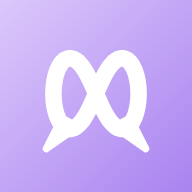
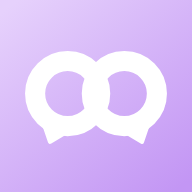
Redraw Lavender Infinity as a wide horizontal loop.
Replace the tall pretzel stroke with two round loops and small speech-bubble tails that point down and outward, then regenerate the favicon and every PNG size from that mark.

diff --git a/src/components/Logo.tsx b/src/components/Logo.tsx
@@ -1,34 +1,28 @@
 import { useId } from 'react'
 import { cn } from '../lib/cn'
 
-const INFINITY =
-  'M46.2 31.2 L46.11 33.37 L45.84 35.45 L45.42 37.35 L44.86 39.02 L44.19 40.41 L43.44 41.49 L42.65 42.27 L41.84 42.76 L41.02 42.98 L40.22 42.96 L39.44 42.73 L38.69 42.32 L37.98 41.77 L37.31 41.09 L36.66 40.31 L36.06 39.46 L35.48 38.54 L34.93 37.57 L34.41 36.56 L33.9 35.52 L33.41 34.45 L32.93 33.38 L32.47 32.29 L32 31.2 L31.53 30.11 L31.07 29.02 L30.59 27.95 L30.1 26.88 L29.59 25.84 L29.07 24.83 L28.52 23.86 L27.94 22.94 L27.34 22.09 L26.69 21.31 L26.02 20.63 L25.31 20.08 L24.56 19.67 L23.78 19.44 L22.98 19.42 L22.16 19.64 L21.35 20.13 L20.56 20.91 L19.81 21.99 L19.14 23.38 L18.58 25.05 L18.16 26.95 L17.89 29.03 L17.8 31.2 L17.89 33.37 L18.16 35.45 L18.58 37.35 L19.14 39.02 L19.81 40.41 L20.56 41.49 L21.35 42.27 L22.16 42.76 L22.98 42.98 L23.78 42.96 L24.56 42.73 L25.31 42.32 L26.02 41.77 L26.69 41.09 L27.34 40.31 L27.94 39.46 L28.52 38.54 L29.07 37.57 L29.59 36.56 L30.1 35.52 L30.59 34.45 L31.07 33.38 L31.53 32.29 L32 31.2 L32.47 30.11 L32.93 29.02 L33.41 27.95 L33.9 26.88 L34.41 25.84 L34.93 24.83 L35.48 23.86 L36.06 22.94 L36.66 22.09 L37.31 21.31 L37.98 20.63 L38.69 20.08 L39.44 19.67 L40.22 19.44 L41.02 19.42 L41.84 19.64 L42.65 20.13 L43.44 20.91 L44.19 21.99 L44.86 23.38 L45.42 25.05 L45.84 26.95 L46.11 29.03 L46.2 31.2'
+const LOOPS =
+  'M 33.40 31.20 A 10.85 10.85 0 1 1 11.70 31.20 A 10.85 10.85 0 1 1 33.40 31.20 M 52.30 31.20 A 10.85 10.85 0 1 1 30.60 31.20 A 10.85 10.85 0 1 1 52.30 31.20'
+
+const TAILS = 'M 22.31 43.85 L 16.72 47.22 L 14.60 41.04 Z M 49.40 41.04 L 47.28 47.22 L 41.69 43.85 Z'
 
 export function Logo({ className }: { className?: string }) {
   const gradient = `lavender-infinity-${useId().replace(/:/g, '')}`
   return (
     <svg className={cn('h-10 w-10', className)} viewBox="0 0 64 64" aria-hidden="true">
       <defs>
-        <linearGradient id={gradient} x1="0" y1="0" x2="64" y2="64" gradientUnits="userSpaceOnUse">
-          <stop offset="0" stopColor="#dcc8fb" />
-          <stop offset="1" stopColor="#a983f0" />
+        <linearGradient id={gradient} x1="6" y1="0" x2="58" y2="64" gradientUnits="userSpaceOnUse">
+          <stop offset="0" stopColor="#e6d1fc" />
+          <stop offset="1" stopColor="#c396f4" />
         </linearGradient>
       </defs>
-      <rect width="64" height="64" rx="14" fill={`url(#${gradient})`} />
-      <path d={INFINITY} fill="none" stroke="#fff" strokeWidth="5.5" strokeLinecap="round" strokeLinejoin="round" />
+      <rect width="64" height="64" rx="14.5" fill={`url(#${gradient})`} />
+      <path d={LOOPS} fill="none" stroke="#fff" strokeWidth="6.7" strokeLinecap="round" strokeLinejoin="round" />
       <path
-        d="M26 42.2 15.4 49.6 20.6 39.4Z"
+        d={TAILS}
         fill="#fff"
         stroke="#fff"
-        strokeWidth="2.4"
-        strokeLinecap="round"
-        strokeLinejoin="round"
-      />
-      <path
-        d="M38 42.2 48.6 49.6 43.4 39.4Z"
-        fill="#fff"
-        stroke="#fff"
-        strokeWidth="2.4"
+        strokeWidth="1.5"
         strokeLinecap="round"
         strokeLinejoin="round"
       />
